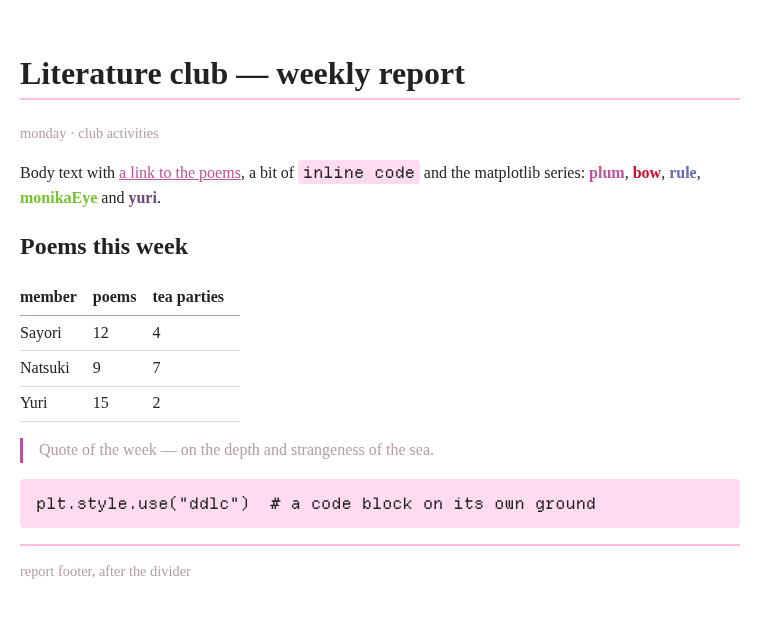
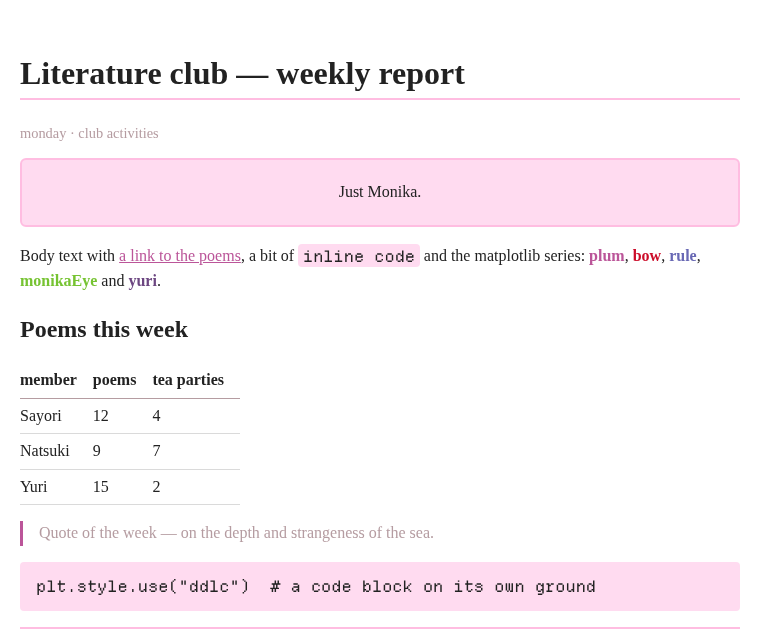
Let the stylesheet say what inform looks like
The game already knew: its dialog box is a dot ground under the ink
with a blush frame, everything centred. Consumers were rebuilding that
from the raw palette's character names - a mapping that broke the moment
a name moved. Now the report stylesheet carries it as two variables and
a .ddlc-inform class shaped like that dialog, on both grounds:
yuriShadow under a yuri frame takes over on dark, where dot cannot be a
ground at all. The demo page shows it interrupting right under the
heading, saying the only thing it could.

Generated-by: Claude Code:claude-fable-5

diff --git a/dist/ddlc-report.css b/dist/ddlc-report.css
@@ -4,7 +4,10 @@
    A dark report gets three series where a light one gets five — the palette is
    polarised, and the other two do not survive on ink; there --ddlc-series-4 and -5
    collapse into the muted grey on purpose, so a tail that was not folded into the
-   remaining three is visible but stops pretending to be a series */
+   remaining three is visible but stops pretending to be a series.
+   The inform block is the game's own dialog box: a dot ground under the ink
+   with a blush frame in light, yuriShadow under a yuri frame on dark — the
+   level lives in the frame, not in a hue the palette does not have */
 
 :root {
   --ddlc-ground: #FFFFFF;
@@ -16,6 +19,8 @@
   --ddlc-accent-live: #DD77BB;
   --ddlc-code-ground: #FFDBF0;
   --ddlc-selection: #FFBDE1;
+  --ddlc-inform-ground: #FFDBF0;
+  --ddlc-inform-border: #FFBDE1;
   --ddlc-series-1: #BB5599;
   --ddlc-series-2: #CC0C29;
   --ddlc-series-3: #6868B4;
@@ -34,6 +39,8 @@
     --ddlc-accent-live: #FFBDE1;
     --ddlc-code-ground: #361B39;
     --ddlc-selection: #6C4681;
+    --ddlc-inform-ground: #361B39;
+    --ddlc-inform-border: #6C4681;
     --ddlc-series-1: #BB5599;
     --ddlc-series-2: #CC0C29;
     --ddlc-series-3: #6868B4;
@@ -52,6 +59,8 @@
   --ddlc-accent-live: #FFBDE1;
   --ddlc-code-ground: #361B39;
   --ddlc-selection: #6C4681;
+  --ddlc-inform-ground: #361B39;
+  --ddlc-inform-border: #6C4681;
   --ddlc-series-1: #BB5599;
   --ddlc-series-2: #CC0C29;
   --ddlc-series-3: #6868B4;
@@ -137,6 +146,18 @@ blockquote {
   padding-left: 1rem;
   border-left: 3px solid var(--ddlc-accent);
   color: var(--ddlc-muted);
+}
+
+/* The one block allowed to interrupt, shaped like the game's own dialog box:
+   a pink ground framed on all sides, everything centred, the ink doing the
+   talking */
+.ddlc-inform {
+  background: var(--ddlc-inform-ground);
+  border: 2px solid var(--ddlc-inform-border);
+  border-radius: 6px;
+  padding: 1.25rem 1.5rem;
+  text-align: center;
+  color: var(--ddlc-ink);
 }
 
 figcaption, .ddlc-muted {

diff --git a/docs/report-demo.html b/docs/report-demo.html
@@ -15,6 +15,7 @@
 <body>
 <h1>Literature club — weekly report</h1>
 <p class="ddlc-muted">monday · club activities</p>
+<div class="ddlc-inform">Just Monika.</div>
 <p>Body text with <a href="#">a link to the poems</a>, a bit of <code>inline code</code> and the matplotlib series: <b class="ddlc-series-1">plum</b>, <b class="ddlc-series-2">bow</b>, <b class="ddlc-series-3">rule</b>, <b class="ddlc-series-4">monikaEye</b> and <b class="ddlc-series-5">yuri</b>.</p>
 <h2>Poems this week</h2>
 <table>

diff --git a/CHANGELOG.md b/CHANGELOG.md
@@ -2,6 +2,12 @@
 
 Kept in the shape of [Keep a Changelog](https://keepachangelog.com/en/1.1.0/), versioned by [semver](https://semver.org/spec/v2.0.0.html)
 
+## [Unreleased]
+
+### Added
+
+- `ddlc-report.css` speaks the inform level: `--ddlc-inform-ground` and `--ddlc-inform-border` (a dot ground under the ink with a blush frame in light, yuriShadow under a yuri frame on dark), plus a `.ddlc-inform` class shaped like the game's own dialog box — framed on all sides, everything centred, the ink doing the talking. Consumers that were rebuilding this from the raw palette's character names can now read it from the stylesheet like every other role
+
 ## [2.0.0] - 2026-09-01
 
 ### Changed
